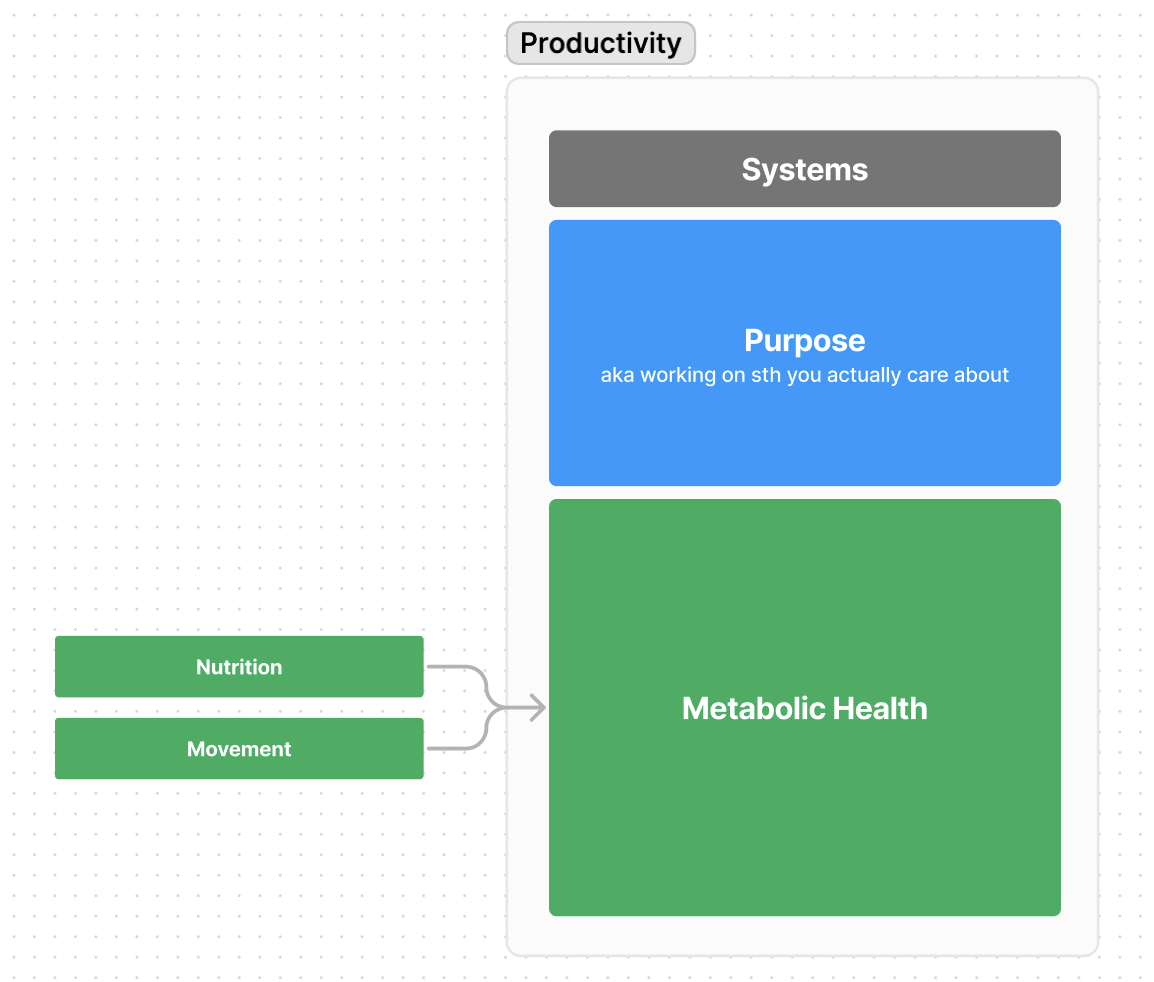
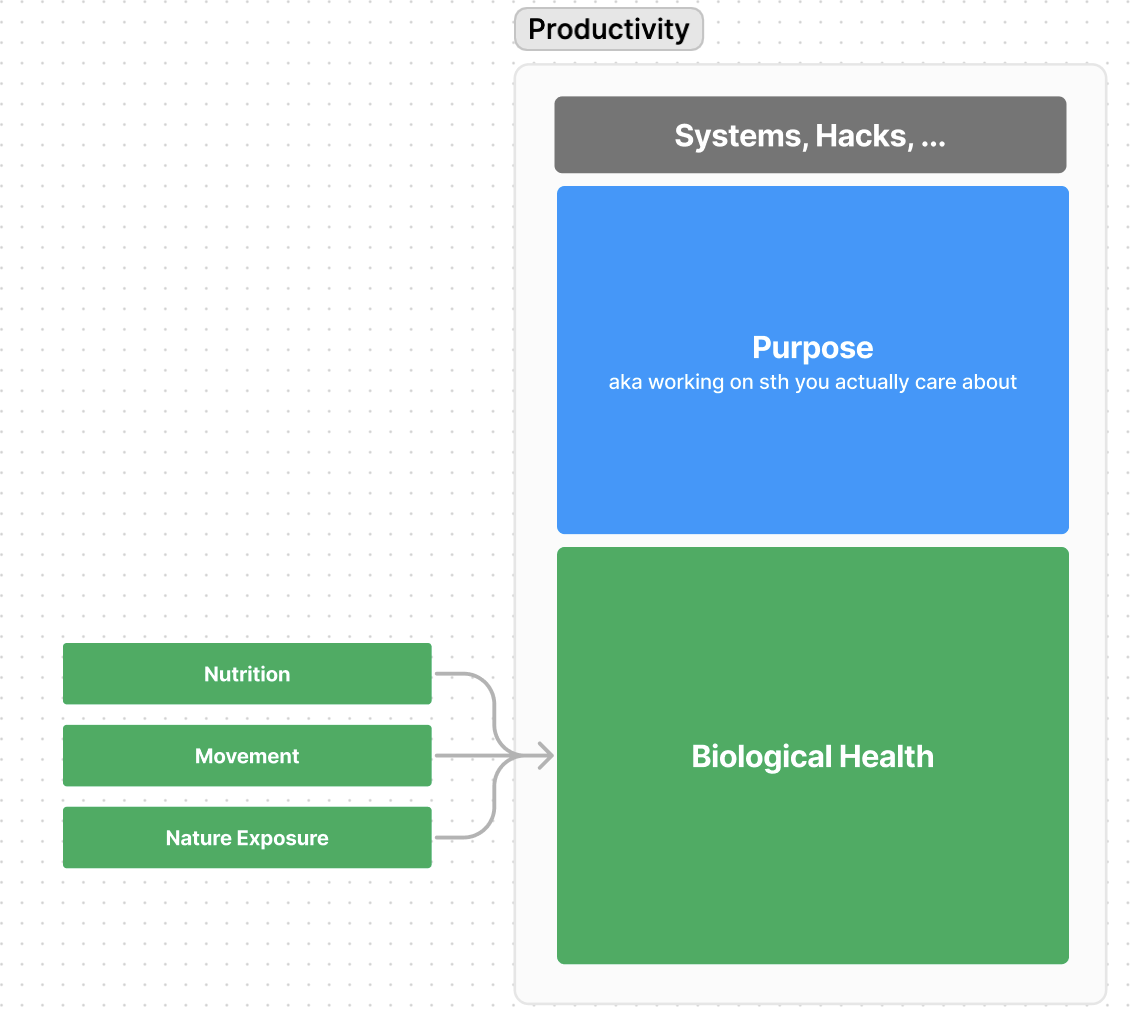
upstream productivity

Changed region(s): [[0.031, 0.0916, 0.9602, 0.947], [0.5885, 0.7026, 0.8363, 0.7637], [0.4336, 0.0, 0.6195, 0.0916]]

diff --git a/_posts/2024-04-29-upstream-productivity.md b/_posts/2024-04-29-upstream-productivity.md
@@ -50,11 +50,13 @@ Productivity is largely upstream of your metabolic health and your sense of purp
 
 This becomes obvious if we use inversion.
 
-When you feel like shit, maybe because you drank too much last night, maybe because you just ate a lot of junk, maybe because you haven't moved your body in a while, maybe because you're not getting enough sunlight exposure or lacking fresh air, it's impossible to get anything done.
+When you feel like shit, maybe because you drank too much last night, maybe because you just ate a lot of junk, maybe because you haven't moved your body in a while, maybe because you're not getting enough sunlight exposure or lacking fresh air, maybe because you're not breathing correctly, maybe because [you're not going on enough walks](https://www.charlottegrysolle.com/the-most-underrated-brain-exercise/), it's impossible to get anything done.
+
+[Biological health is upstream of mental health](https://justinmares.substack.com/p/the-next-episode-53) and mental health is upstream of productivity.
 
 Similarly, when you do not truly care about the things you're trying to get done, it always feels like a huge uphill battle.
 
-But when you truly care about the work you do and your body feels amazing, productivity becomes effortless.
+But when you [truly care about the work you do](https://jakobgreenfeld.com/way-of-man-deida) and your body feels amazing, productivity becomes effortless.
 
 So what productivity boils down to is taking care of your body and finding a mission you can fully get behind.
 
